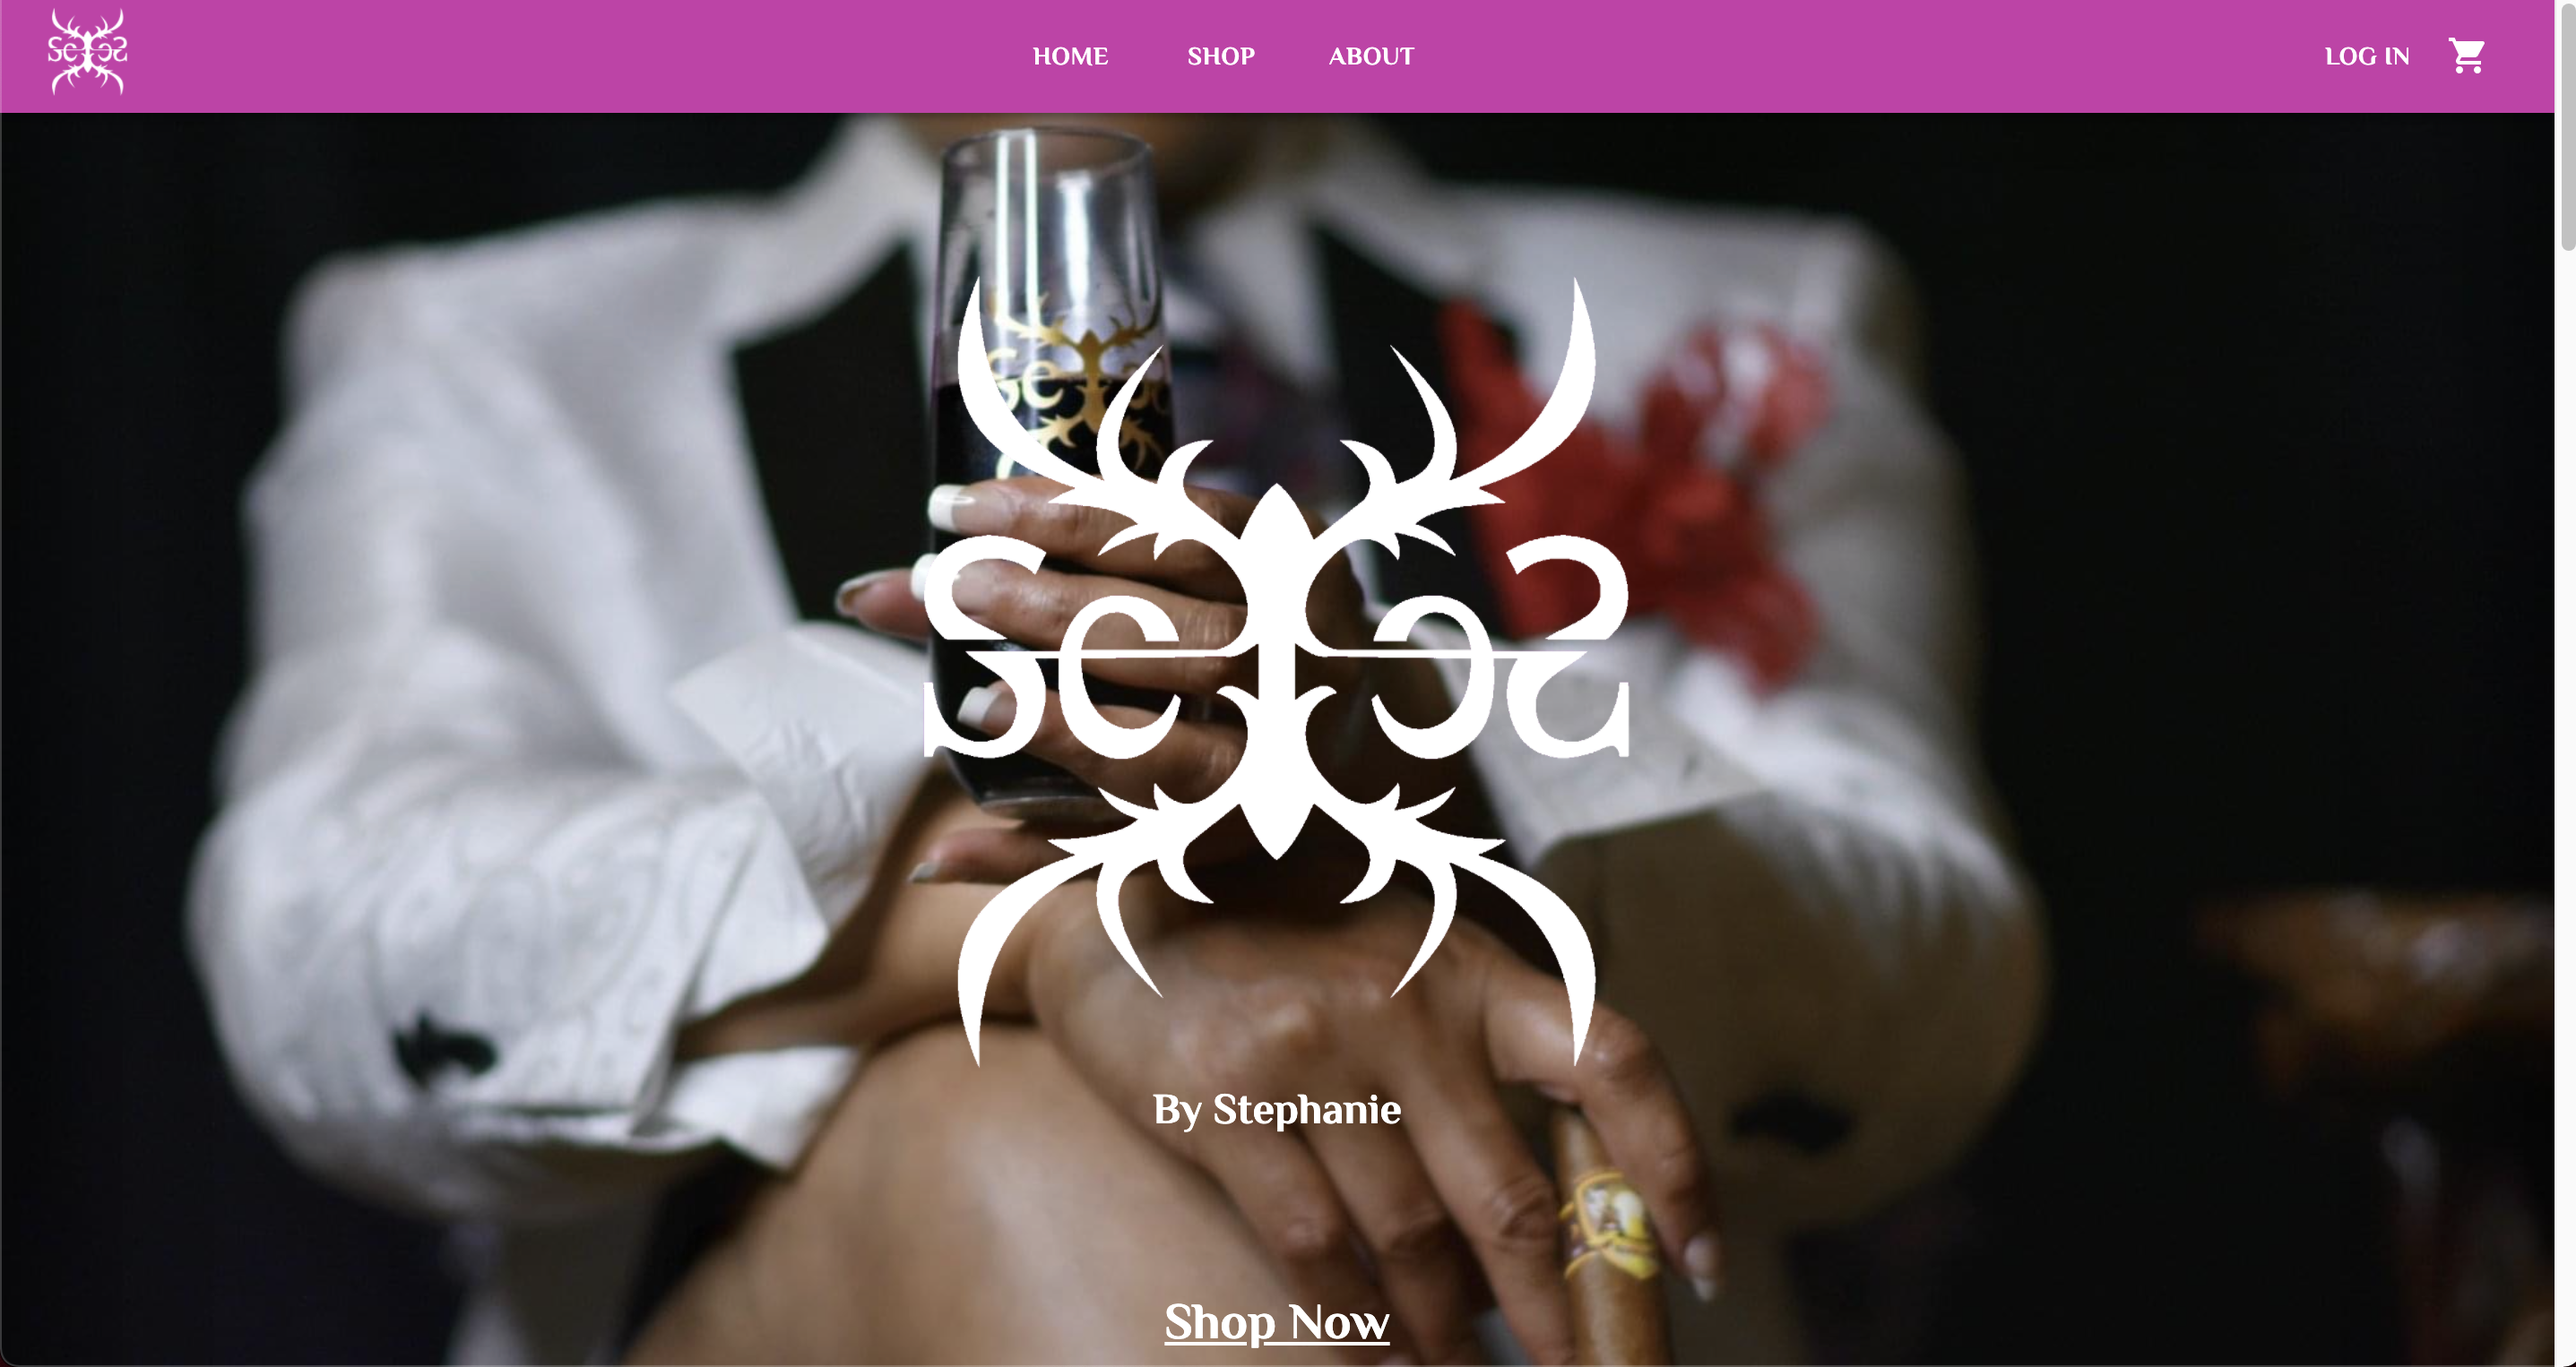
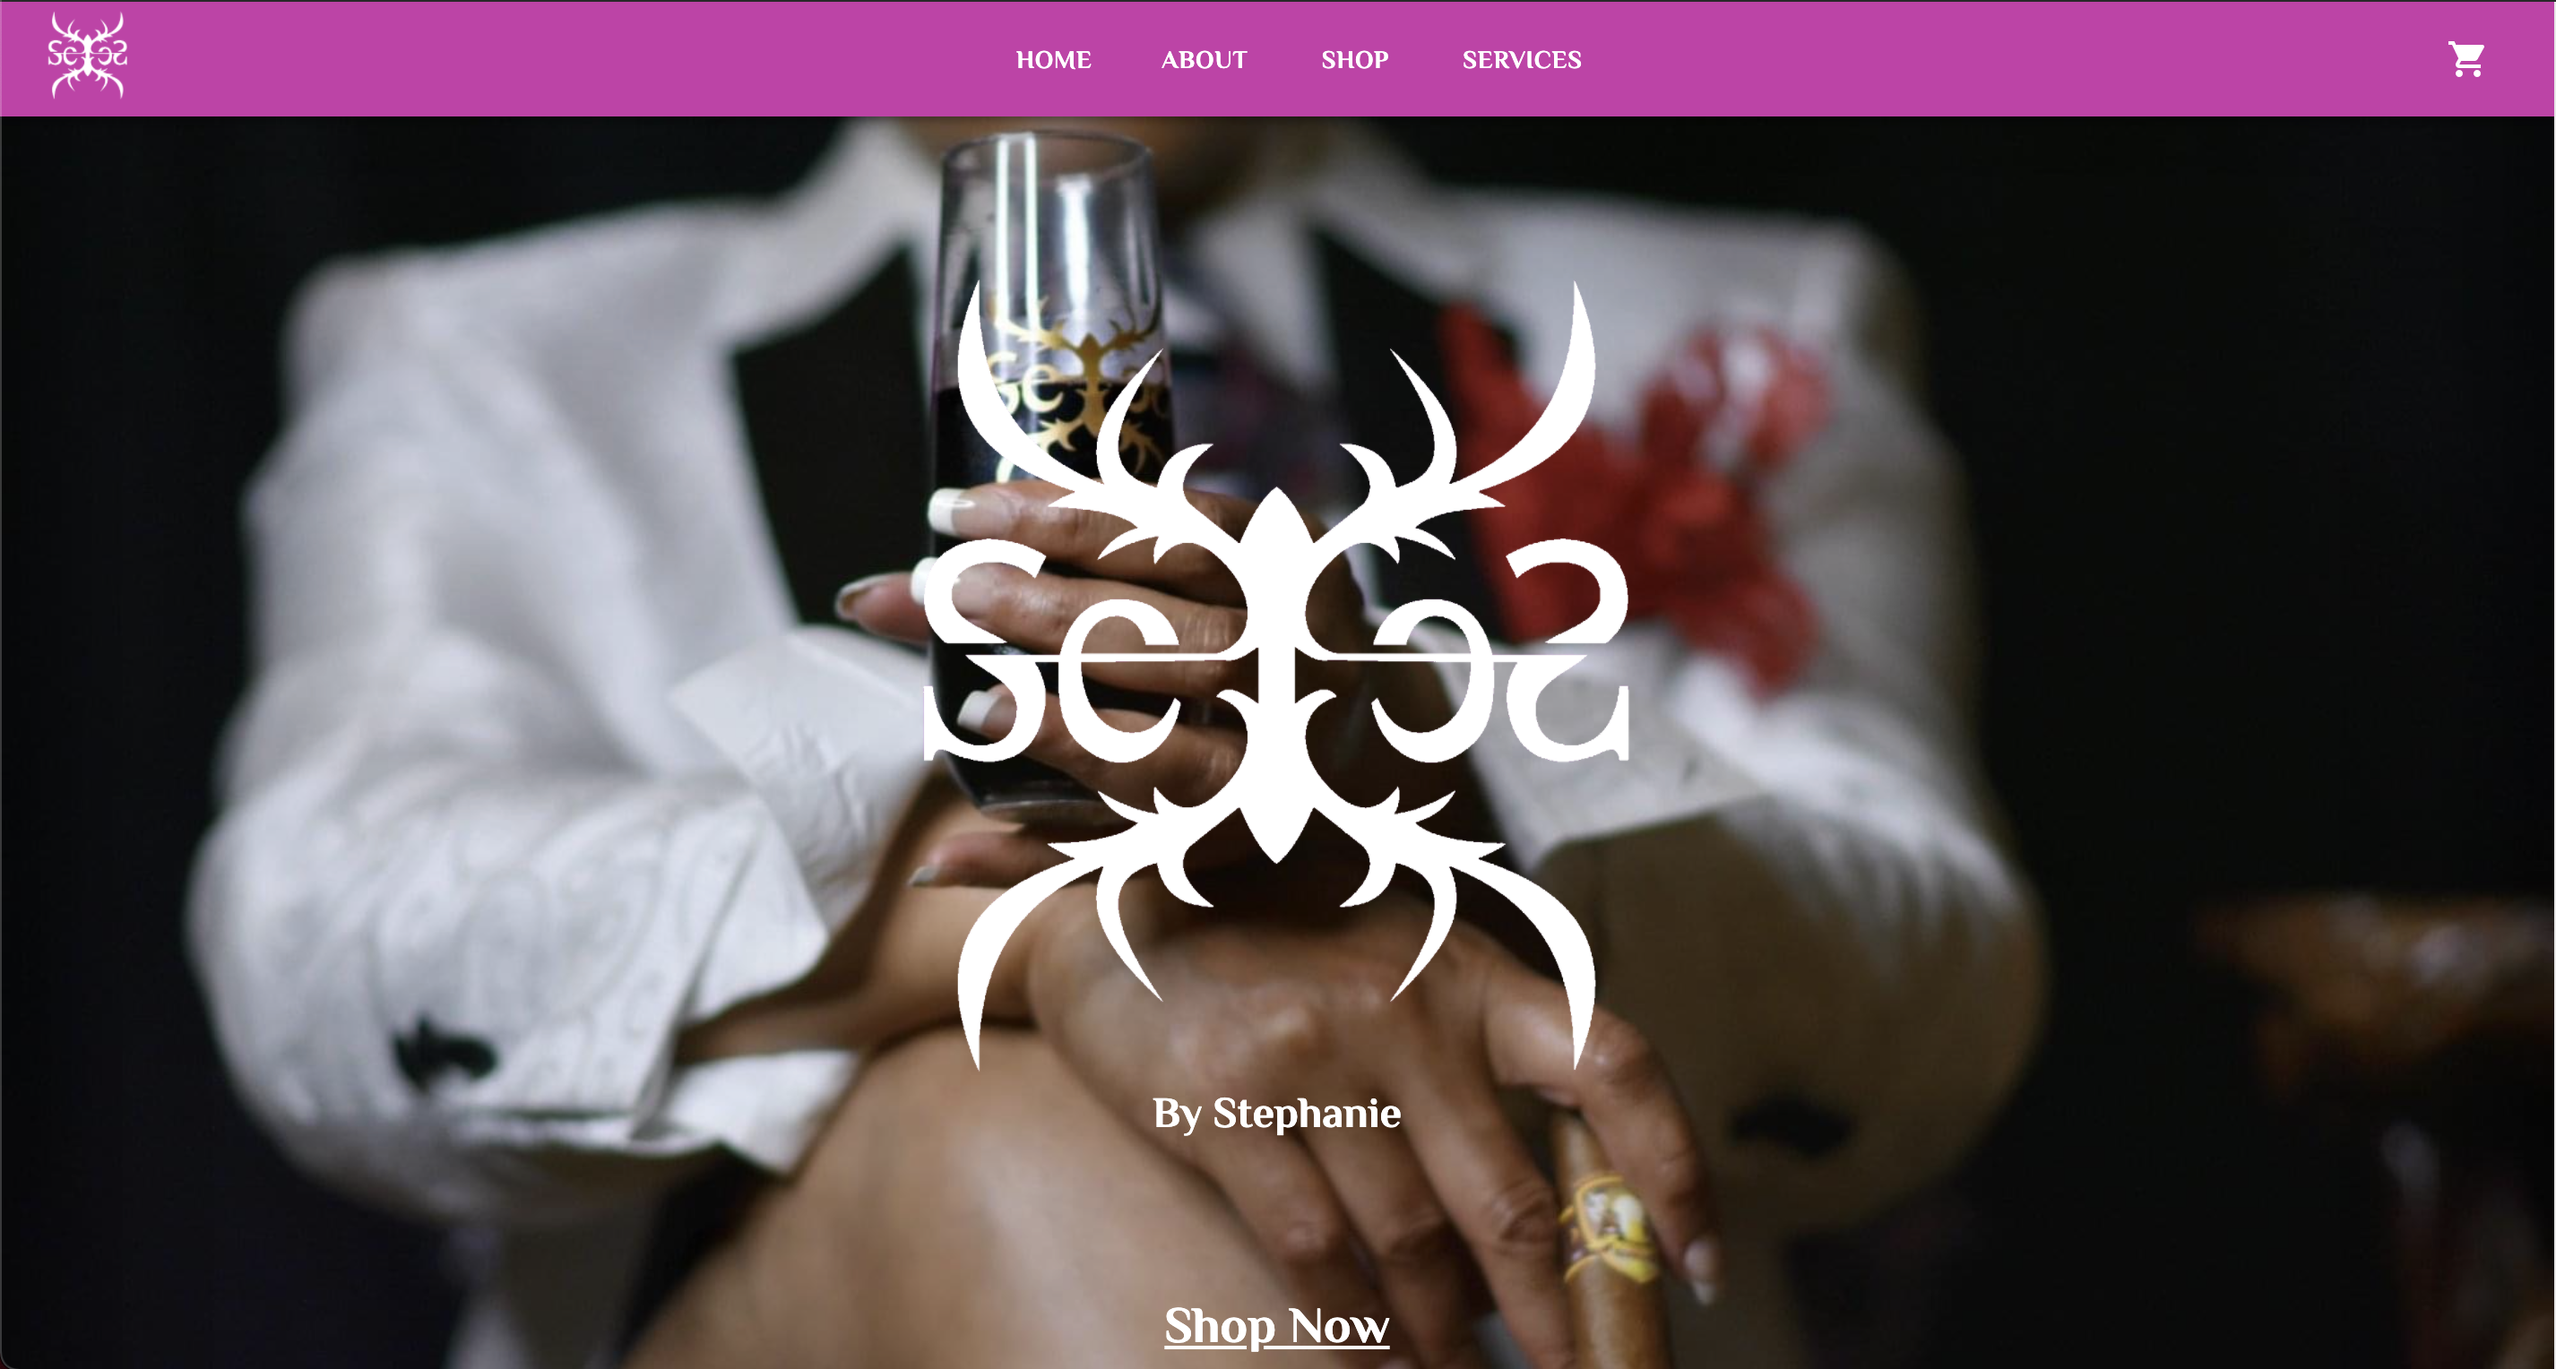
readme addition

diff --git a/README.md b/README.md
@@ -43,3 +43,5 @@ npm start
 - Services page was recently added. There are some responsiveness bugs that need to be fixed. (3/24/21)
 - **UPDATE** Will be updating the project to utilize firebase storage for all the photos used in the multiple photo galleries. Having them stored locally is making the build folder too large to deploy. (3/26/21)
 - **UPDATE** Dumped majority of the photos for the services carousels into firebase storage. Doing this optimized the overall project size allowing me to deploy the latest changes. (3/27/21)
+- **UPDATE** Gallery images for each service section is now being dynamically set to state when the data is retrieved as opposed to pulling from a list of hard-coded sources. (3/29/21)
+- **UPDATE** Updated website screen shot image and limited the number of images displayed in each service section photo gallery to cut down on the number of requests made to firebase. (3/30/21)
